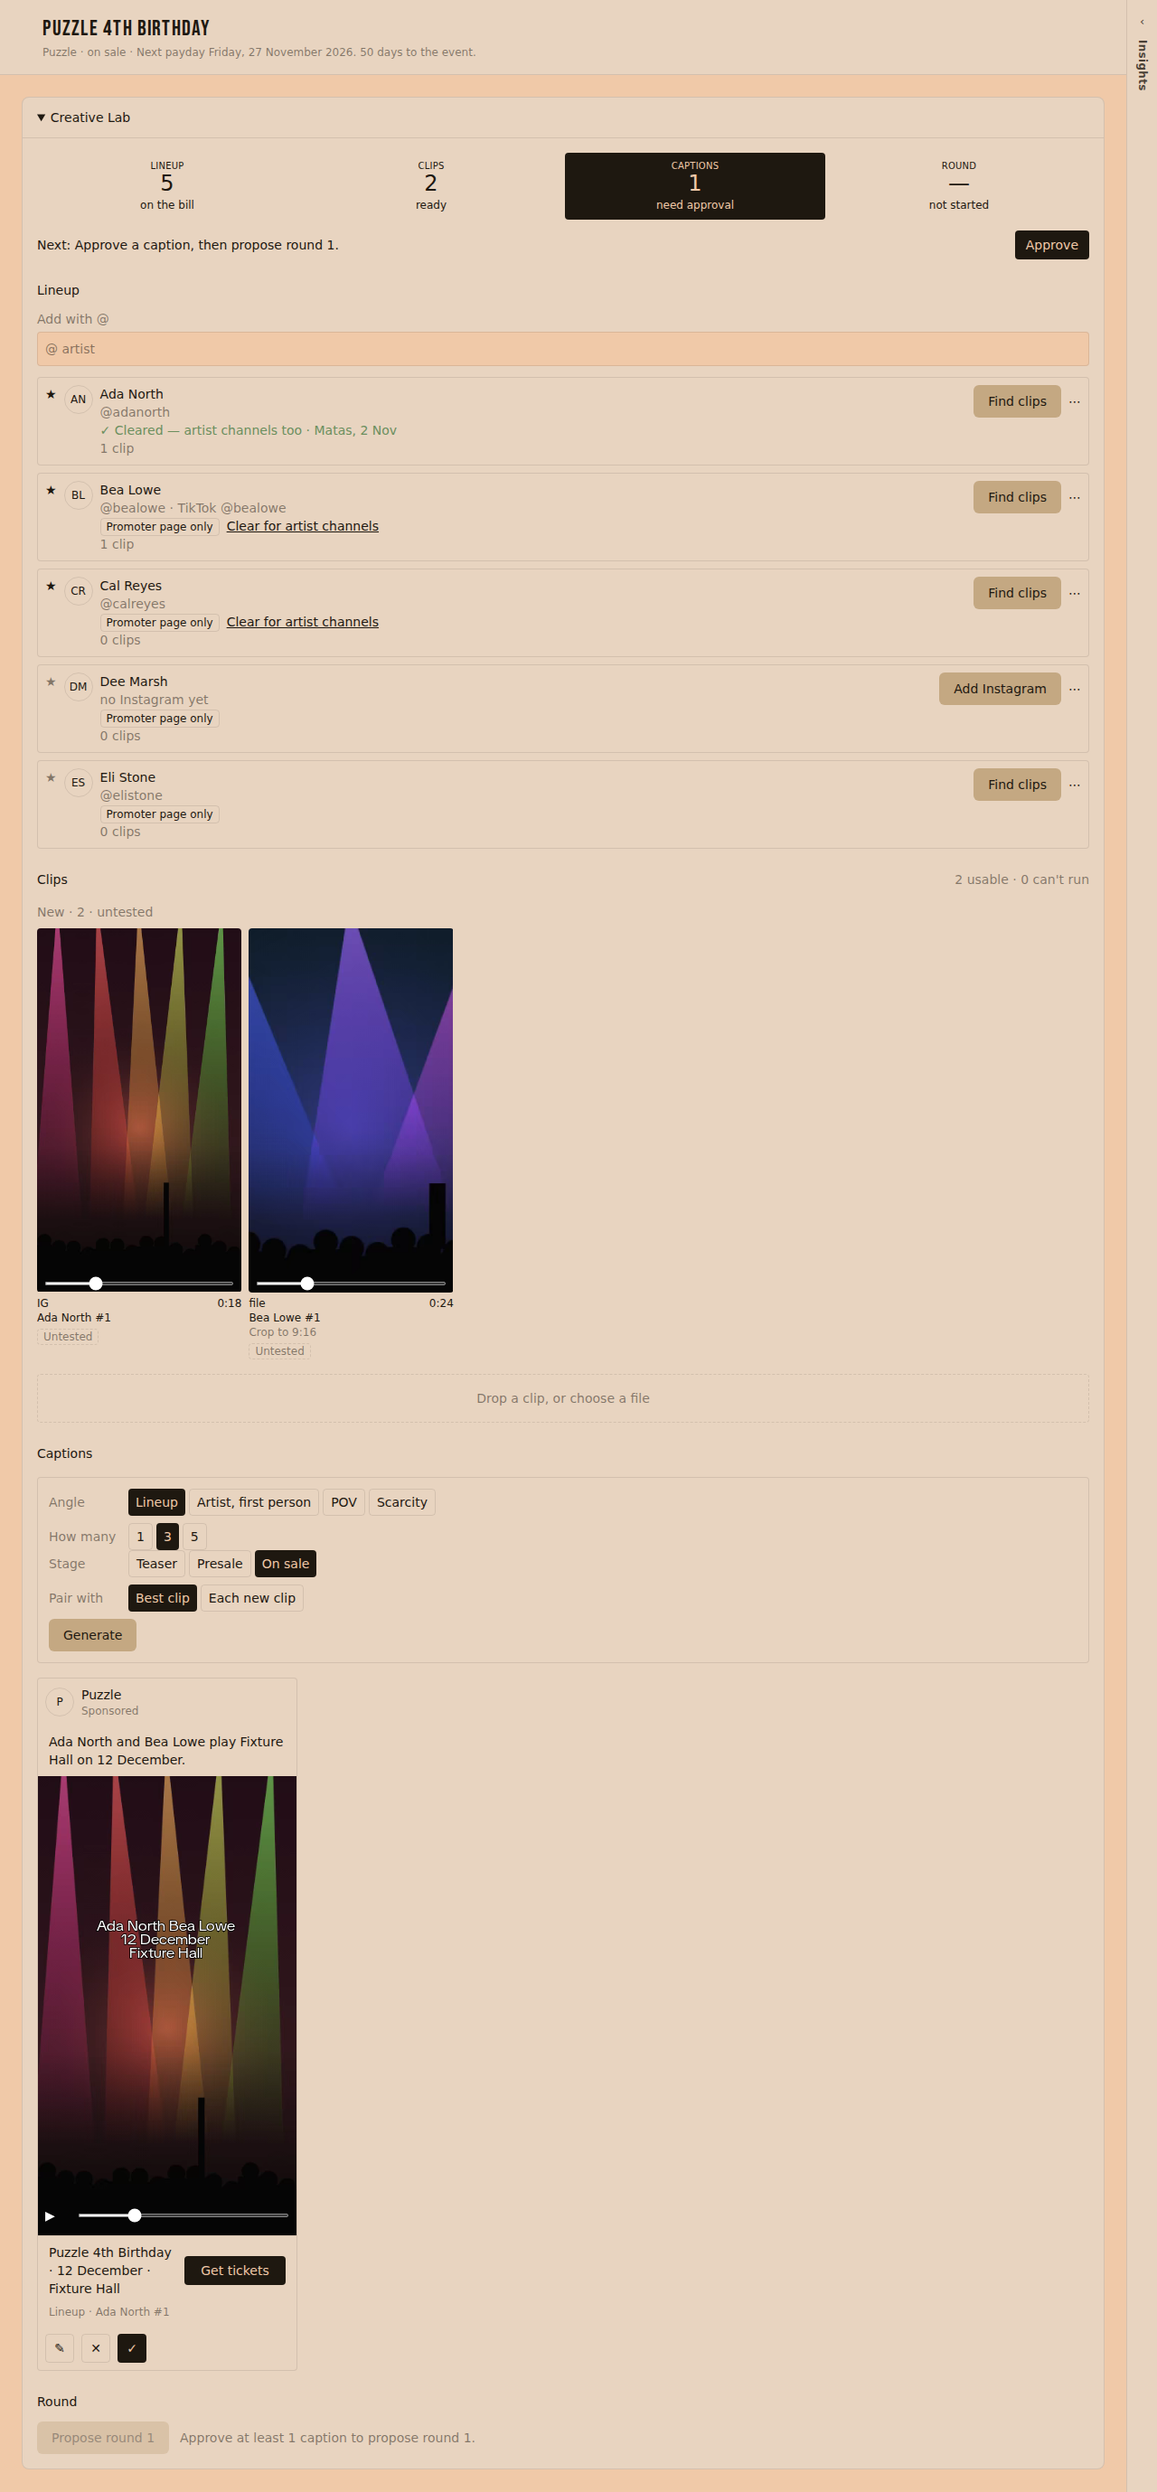
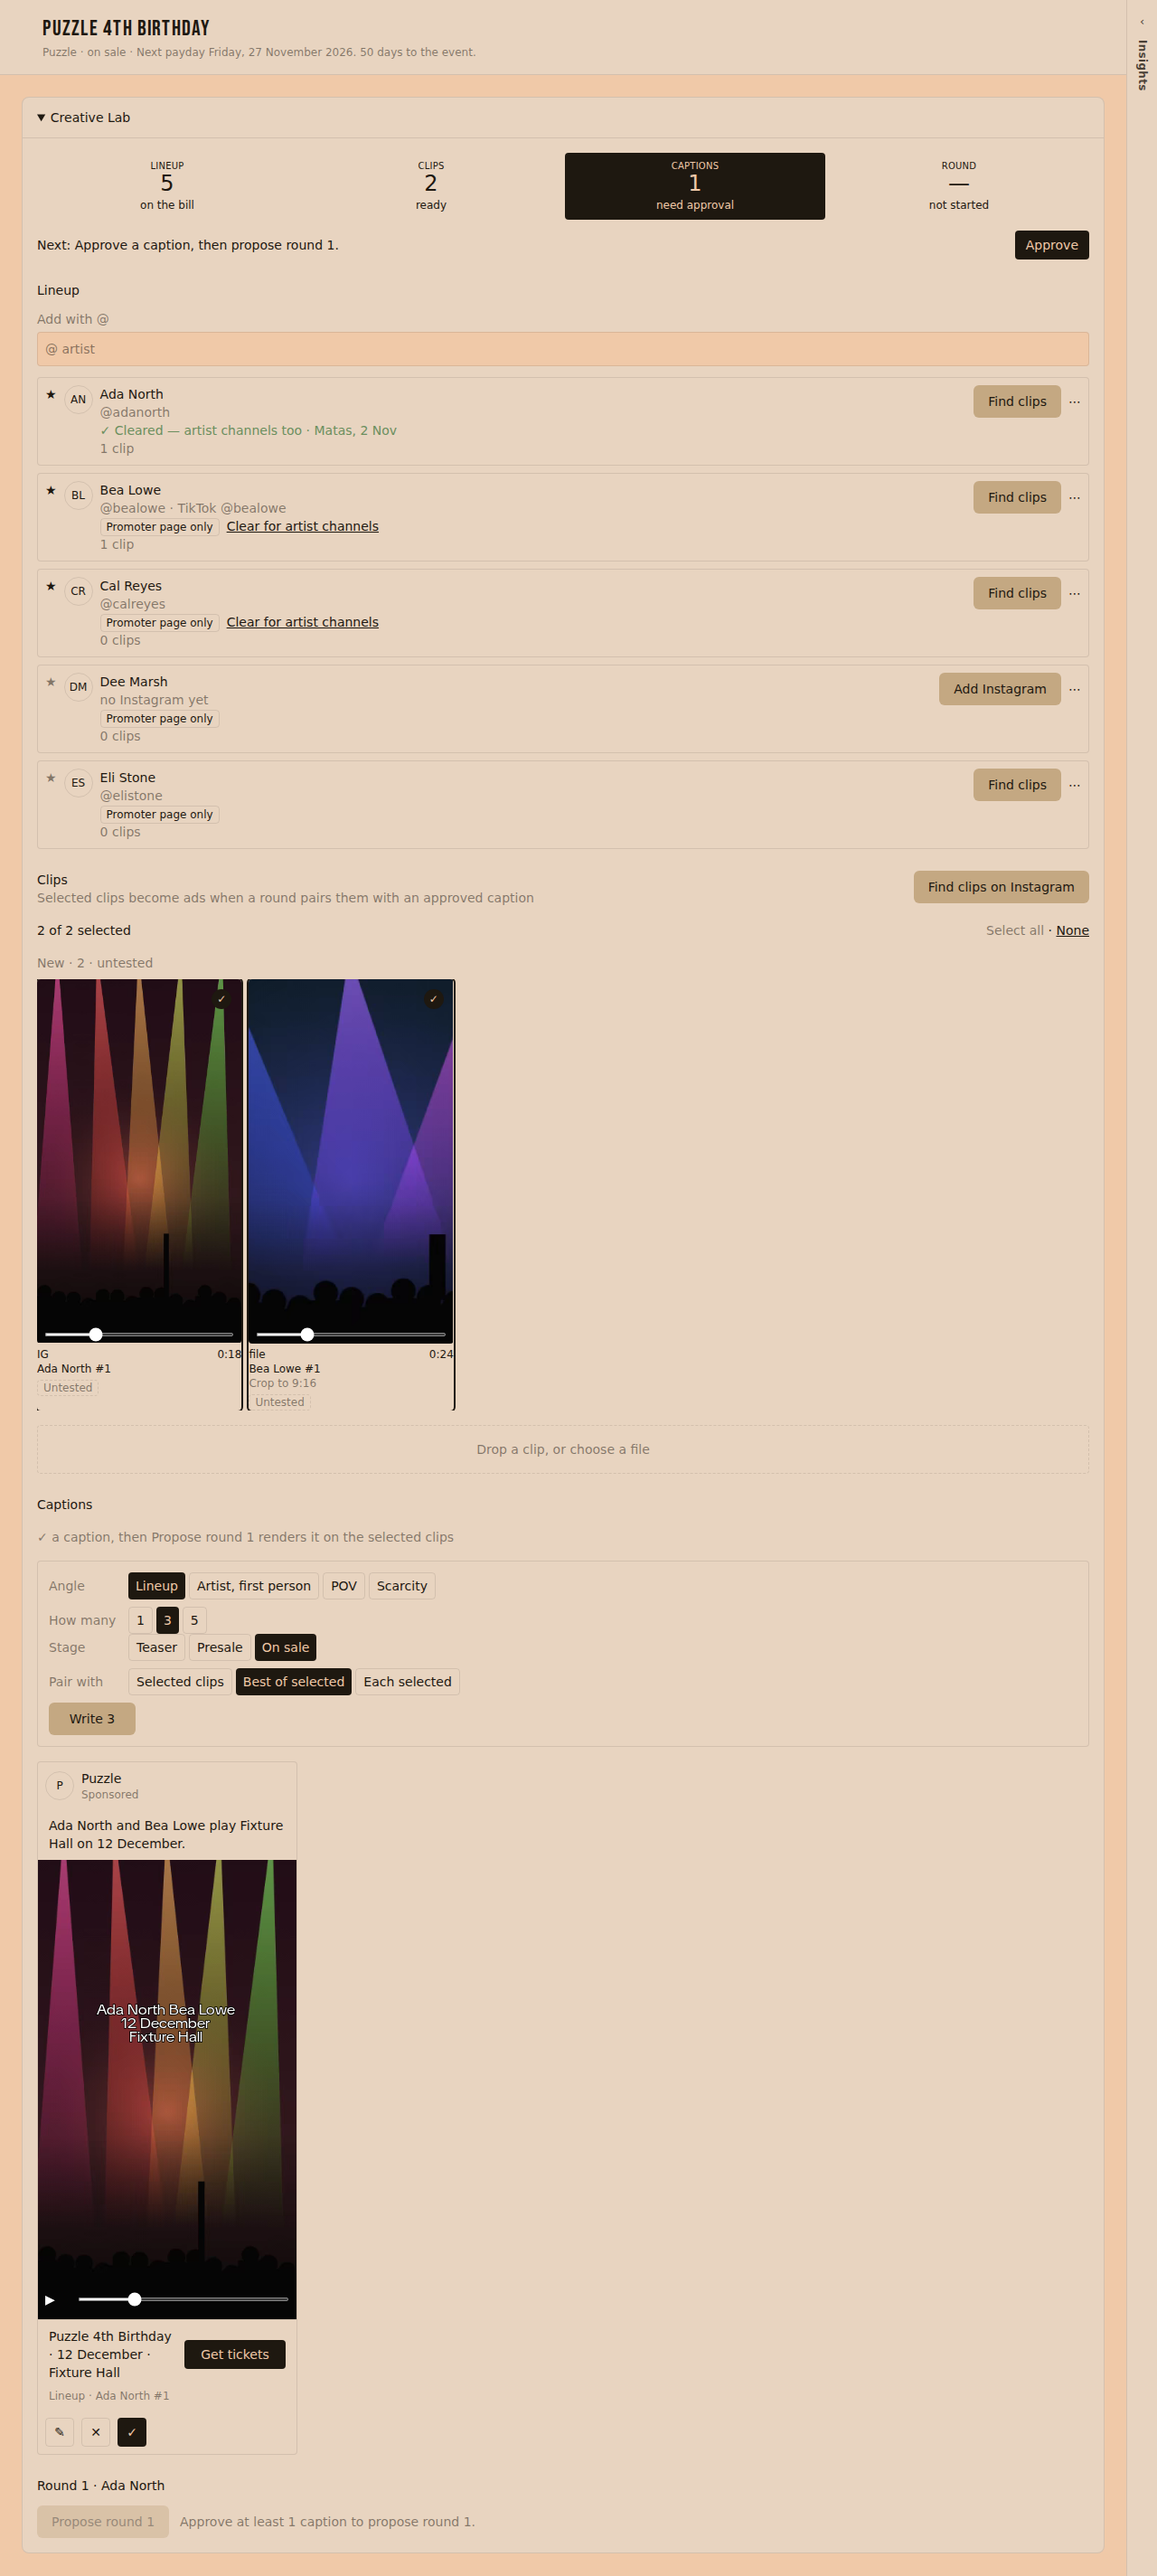
Update the event-page rail frames for the taller Creative Lab card.
IR1 and IR2 mount the card, so the clip header and the Write button lengthen those shots.

diff --git a/docs/session-logs/pr-1129-cursor-creative-lab-clip-selection.md b/docs/session-logs/pr-1129-cursor-creative-lab-clip-selection.md
@@ -28,3 +28,5 @@ Creative Lab clip selection: a tick on each usable clip, persisted per event, an
[1 lines of base64/hex data omitted]
 
 Frame baselines (Ubuntu, `only=CL`, head `80873538be7e15e0e65b4715b10b153b826c00f2`): runs 42514713069 and 42514718120. CLS1–CLS4 added. CL1–CL10 and CLV1–CLV4 rewritten (the caption header and Write button sit in the voice frames). CLQ1–CLQ4 matched git and were left. CL5-1280 differs by 83 pixels between the two runs (0.0017%, under the 0.2% gate); the committed file is from 42514713069.
+
+The event-page rail frames mount the same card, so IR1-1280 and IR2-1280 grew. Ubuntu `only=IR` runs 42515870907 and 42515876251 match byte for byte; those two files are committed from 42515870907. The other IR frames matched git.
